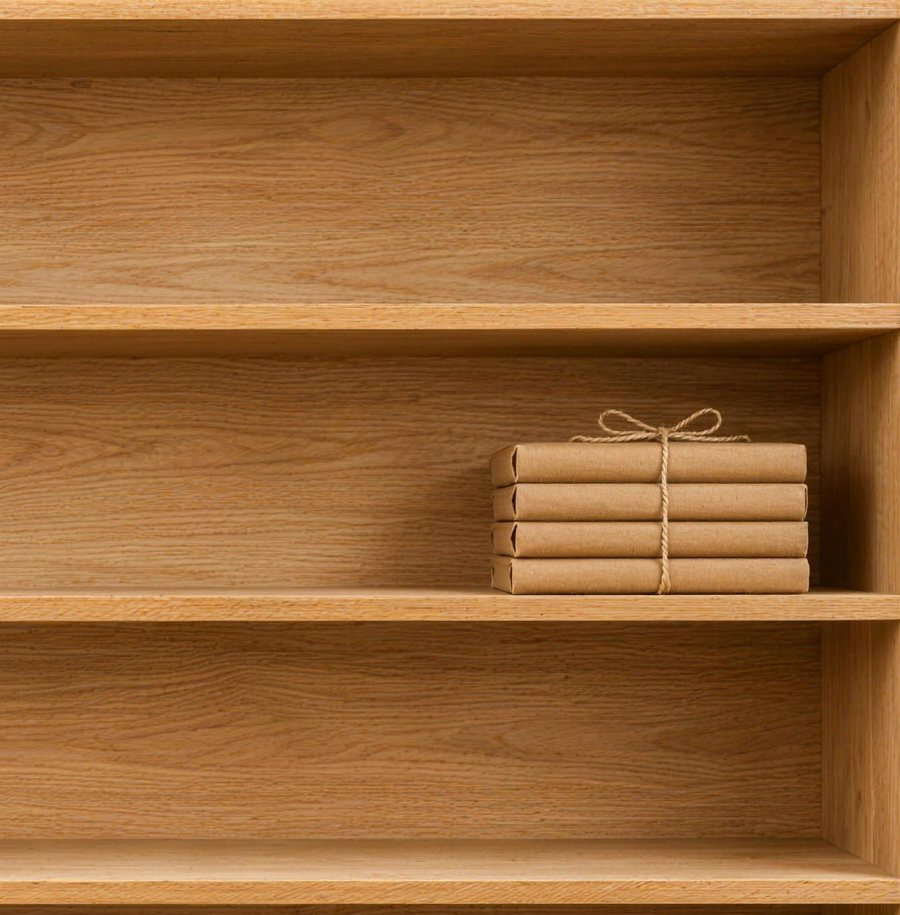
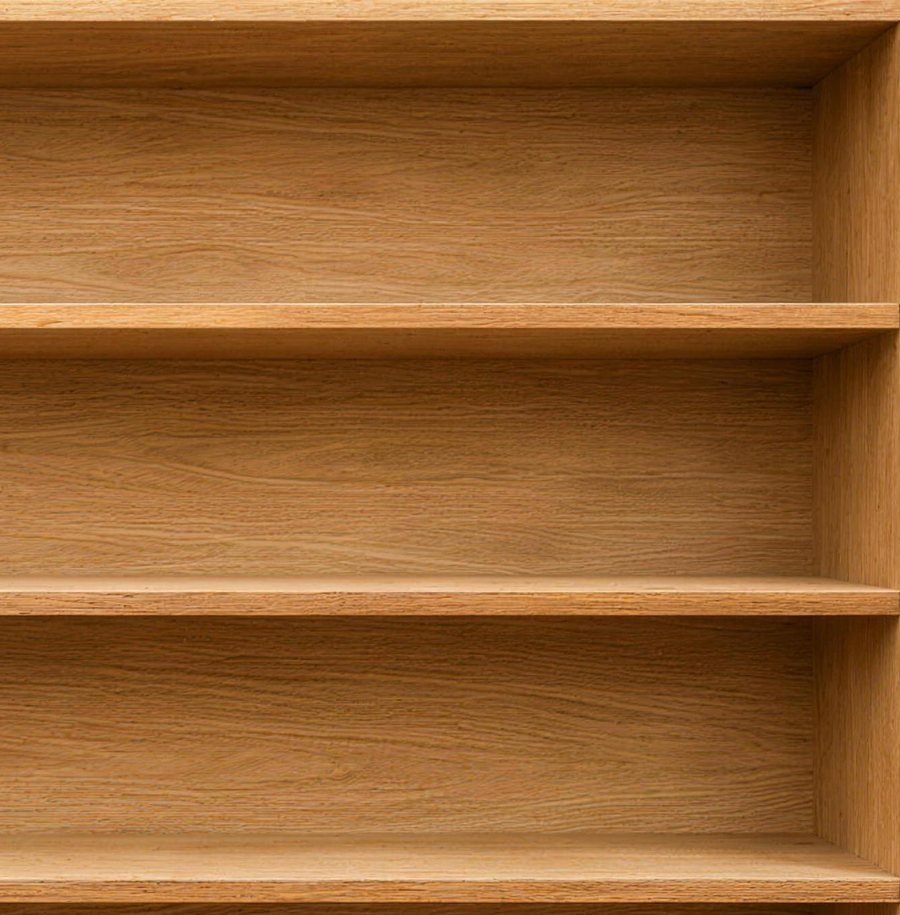
Shelf: labels stay in front of opened books, real contents pages inside the covers, in-production stack whose twine loosens on hover

diff --git a/public/styles.css b/public/styles.css
@@ -322,7 +322,7 @@ a { color: var(--rose-deep); }
 .book3d.yours { --w: 10.4cqw; --h: 15.6cqw; }
 .bookcase-photo, .bookcase-photo img { display: block; width: 100%; height: auto; border-radius: 4px; }
 .slot { position: absolute; left: var(--x); bottom: var(--y); transform: translateX(-50%); }
-.slot-label { position: absolute; left: var(--x); top: var(--y); transform: translate(-50%, -50%); white-space: nowrap; z-index: 6;
+.slot-label { position: absolute; left: var(--x); top: var(--y); transform: translate(-50%, -50%); white-space: nowrap; z-index: 10; pointer-events: none;
   font-size: max(9px, var(--lab)); font-weight: 600; letter-spacing: .02em; color: #3b2516;
   background: linear-gradient(180deg, #f3e6bd 0%, #d9bd80 55%, #bd9a58 100%); padding: .22em .75em; border-radius: 2px;
   box-shadow: 0 1px 0 rgba(255,255,255,.55) inset, 0 1px 3px rgba(60, 35, 10, .45); }
@@ -333,13 +333,17 @@ a { color: var(--rose-deep); }
 .book3d:hover, .book3d:focus-visible, .book3d.is-open { z-index: 8; outline: none; }
 .book3d::after { content: ""; position: absolute; left: -18%; right: -6%; bottom: -3%; height: 7%; background: radial-gradient(ellipse at center, rgba(70, 40, 10, .45), transparent 70%); z-index: -1; }
 .b3-body { position: absolute; inset: 0; transform-style: preserve-3d; transform: rotateY(34deg); transform-origin: 50% 100%; transition: transform .7s cubic-bezier(.2, .7, .2, 1); }
-.book3d:hover .b3-body, .book3d:focus-visible .b3-body, .book3d.is-open .b3-body { transform: rotateY(0deg) translateZ(30px) scale(1.3); }
+.book3d:hover .b3-body, .book3d:focus-visible .b3-body, .book3d.is-open .b3-body { transform: rotateY(0deg) translateZ(24px) scale(1.2); }
 .b3-page, .b3-cover, .b3-front, .b3-inner, .b3-back { position: absolute; inset: 0; width: 100%; height: 100%; }
 .b3-page { transform: translateZ(-1px); object-fit: cover; border-radius: 0 2px 2px 0; box-shadow: inset 6px 0 10px rgba(0,0,0,.1); }
 .b3-cover { transform-origin: left center; transform-style: preserve-3d; transition: transform .8s .12s cubic-bezier(.3, .6, .2, 1); }
 .book3d:hover .b3-cover, .book3d:focus-visible .b3-cover, .book3d.is-open .b3-cover { transform: rotateY(-128deg); }
 .b3-front { backface-visibility: hidden; object-fit: cover; border-radius: 0 2px 2px 0; box-shadow: inset 3px 0 5px rgba(0,0,0,.22); }
-.b3-inner { transform: rotateY(180deg); backface-visibility: hidden; background: #f3ece0; border-radius: 2px 0 0 2px; box-shadow: inset -8px 0 12px rgba(0,0,0,.08); }
+.b3-inner { transform: rotateY(180deg); backface-visibility: hidden; background: #f3ece0; border-radius: 2px 0 0 2px; box-shadow: inset -8px 0 12px rgba(0,0,0,.08); overflow: hidden; }
+.b3-inner img { width: 100%; height: 100%; object-fit: cover; display: block; }
+.yours-inner { display: flex; flex-direction: column; justify-content: center; gap: .55em; padding: 0 calc(var(--w) * .12); text-align: left;
+  font-family: 'Fraunces', Georgia, serif; font-size: calc(var(--w) * .088); line-height: 1.2; color: #3a2233; }
+.yours-inner b { color: #b5446a; font-weight: 600; }
 .b3-spine { position: absolute; top: 0; left: calc(var(--t) * -1); width: var(--t); height: 100%; transform-origin: right center; transform: rotateY(-90deg); background: var(--spine); color: var(--spine-ink); display: flex; align-items: center; justify-content: center; box-shadow: inset 0 0 6px rgba(0,0,0,.3); overflow: hidden; }
 .b3-spine span { writing-mode: vertical-rl; font-family: 'Fraunces', Georgia, serif; font-size: max(6px, calc(var(--t) * .5)); font-weight: 600; letter-spacing: .02em; white-space: nowrap; }
 .b3-edge { position: absolute; top: 2%; left: 100%; width: var(--t); height: 96%; transform-origin: left center; transform: rotateY(90deg); background: repeating-linear-gradient(90deg, #fbf7ef 0 2px, #e2d7c6 2px 3px); }
@@ -381,6 +385,27 @@ a { color: var(--rose-deep); }
   .slot-label .lt + b { margin-left: 0; }
   .desk-only { display: none; }
 }
+
+/* the "in production" stack: its twine bow slowly loosens on hover */
+.stack { width: 20.5cqw; transform: translateX(-50%); z-index: 2; }
+.stack img { display: block; width: 100%; height: auto; filter: drop-shadow(0 4px 5px rgba(70, 40, 10, .35)); }
+.twine { position: absolute; left: 0; top: -28.26%; width: 100%; height: auto; overflow: visible; filter: drop-shadow(0 1.5px 1px rgba(40, 20, 5, .45)); }
+.twine .tw { fill: none; stroke: #a47b47; stroke-width: 12; stroke-linecap: round; }
+.twine .tw-hi { fill: none; stroke: #e0c28c; stroke-width: 4; stroke-linecap: round; stroke-dasharray: 5 7; opacity: .85; }
+.twine path { transition: d 2.4s cubic-bezier(.4, .1, .2, 1); }
+.twine .loop { transform-box: view-box; transform-origin: 407px 66px; transition: transform 2.4s cubic-bezier(.4, .1, .2, 1); }
+.twine .knot { fill: #94703f; transform-box: view-box; transform-origin: 407px 66px; transition: transform 2.4s; }
+.stack:hover .loop-l, .stack.is-open .loop-l { transform: rotate(-26deg) scale(1.16); }
+.stack:hover .loop-r, .stack.is-open .loop-r { transform: rotate(38deg) scale(.82) translate(6px, 10px); }
+.stack:hover .knot, .stack.is-open .knot { transform: scale(.85); }
+.stack:hover .tw-top, .stack.is-open .tw-top { d: path('M407,118 C399,88 415,44 404,14'); }
+.stack:hover .tw-front, .stack.is-open .tw-front { d: path('M407,118 C421,215 393,350 411,452'); }
+.stack:hover .tw-flat, .stack.is-open .tw-flat { d: path('M18,68 C250,76 560,58 797,70'); }
+.stack:hover .tw-band, .stack.is-open .tw-band { d: path('M14,284 C250,298 560,274 801,288'); }
+.stack:hover .tw-tail-l, .stack.is-open .tw-tail-l { d: path('M407,66 C372,140 332,206 300,268'); }
+.stack:hover .tw-tail-r, .stack.is-open .tw-tail-r { d: path('M407,66 C440,150 468,232 482,304'); }
+@media (max-width: 600px) { .stack { width: 33.3cqw; } }
+@media (prefers-reduced-motion: reduce) { .twine path, .twine .loop, .twine .knot { transition: none; } }
 @media (hover: none) {
   .b3-body { transform: rotateY(22deg); }
 }

diff --git a/public/index.html b/public/index.html
@@ -96,36 +96,37 @@
     <p class="section-sub">Real books, made with creators in their own words. Hover over one to open it, and click to get it.</p>
     <div class="bookcase">
       <picture class="bookcase-photo"><source media="(max-width: 600px)" srcset="img/bookcase-m.jpg"><img src="img/bookcase.jpg" width="1600" height="1294" alt="An oak bookcase with our books on the top shelf"></picture>
-      <div class="slot" style="--x:47.85%;--y:74.15%;--mx:17.46%;--my:66.56%">
+      <div class="slot" style="--x:46.88%;--y:74.15%;--mx:15.87%;--my:66.56%">
         <a class="book3d" href="https://whop.com/loopworkbooks/the-overtired-dog" target="_blank" rel="noopener" aria-label="The Overtired Dog by Kris Downey, $19, opens the book page on Whop" style="--spine:#2f3437;--spine-ink:#f4f1ec">
           <div class="b3-body">
             <img class="b3-page" src="img/book-ch2.jpg" alt="" loading="lazy">
-            <div class="b3-cover"><img class="b3-front" src="img/book-cover.jpg" alt="Cover of The Overtired Dog by Kris Downey"><div class="b3-inner"></div></div>
+            <div class="b3-cover"><img class="b3-front" src="img/book-cover.jpg" alt="Cover of The Overtired Dog by Kris Downey"><div class="b3-inner"><img src="img/book-contents-dog.jpg" alt="" loading="lazy"></div></div>
             <div class="b3-spine"><span>The Overtired Dog</span></div>
             <div class="b3-edge"></div>
             <div class="b3-back"></div>
           </div>
         </a>
       </div>
-      <span class="slot-label" style="--x:47.85%;--y:27.17%;--mx:17.46%;--my:35.16%"><span class="lt">The Overtired Dog</span><b>$19</b></span>
-      <div class="slot" style="--x:72.27%;--y:74.15%;--mx:57.14%;--my:66.56%">
+      <span class="slot-label" style="--x:46.88%;--y:26.93%;--mx:15.87%;--my:34.84%"><span class="lt">The Overtired Dog</span><b>$19</b></span>
+      <div class="slot" style="--x:75.68%;--y:74.15%;--mx:62.70%;--my:66.56%">
         <a class="book3d" href="https://whop.com/unclutter-it/the-small-steps-home-reset" target="_blank" rel="noopener" aria-label="The Small Steps Home Reset by Bridget Stralko, $20, opens the book page on Whop" style="--spine:#f1e6cf;--spine-ink:#2e2a5a">
           <div class="b3-body">
             <img class="b3-page" src="img/book-inside-reset.jpg" alt="" loading="lazy">
-            <div class="b3-cover"><img class="b3-front" src="img/book-cover-reset.jpg" alt="Cover of The Small Steps Home Reset by Bridget Stralko"><div class="b3-inner"></div></div>
+            <div class="b3-cover"><img class="b3-front" src="img/book-cover-reset.jpg" alt="Cover of The Small Steps Home Reset by Bridget Stralko"><div class="b3-inner"><img src="img/book-contents-reset.jpg" alt="" loading="lazy"></div></div>
             <div class="b3-spine"><span>The Small Steps Home Reset</span></div>
             <div class="b3-edge"></div>
             <div class="b3-back"></div>
           </div>
         </a>
       </div>
-      <span class="slot-label" style="--x:72.27%;--y:27.17%;--mx:57.14%;--my:35.16%"><span class="lt">The Small Steps Home Reset</span><b>$20</b></span>
-      <span class="slot-label" style="--x:81.54%;--y:51.21%;--mx:72.22%;--my:66.25%">In production</span>
-      <div class="slot" style="--x:59.57%;--y:27.54%;--mx:36.51%;--my:6.25%">
+      <span class="slot-label" style="--x:75.68%;--y:26.93%;--mx:62.70%;--my:34.84%"><span class="lt">The Small Steps Home Reset</span><b>$20</b></span>
+      <div class="slot stack" style="--x:80.08%;--y:50.48%;--mx:69.84%;--my:35.94%"><img src="img/stack.png" width="408" height="230" alt="Books in production, wrapped in brown paper"><svg class="twine" viewBox="0 -130 815 590" aria-hidden="true"><path class="tw tw-top" d="M407,118 L407,14"/><path class="tw-hi tw-top" d="M407,118 L407,14"/><path class="tw tw-front" d="M407,118 L407,452"/><path class="tw-hi tw-front" d="M407,118 L407,452"/><path class="tw tw-flat" d="M18,64 L797,64"/><path class="tw-hi tw-flat" d="M18,64 L797,64"/><path class="tw tw-band" d="M14,282 L801,282"/><path class="tw-hi tw-band" d="M14,282 L801,282"/><path class="tw tw-tail-l" d="M407,66 C384,104 356,132 334,168"/><path class="tw-hi tw-tail-l" d="M407,66 C384,104 356,132 334,168"/><path class="tw tw-tail-r" d="M407,66 C430,108 452,146 470,186"/><path class="tw-hi tw-tail-r" d="M407,66 C430,108 452,146 470,186"/><g class="loop loop-l"><path class="tw" d="M407,66 C318,-96 220,24 407,66"/><path class="tw-hi" d="M407,66 C318,-96 220,24 407,66"/></g><g class="loop loop-r"><path class="tw" d="M407,66 C500,-100 610,22 407,66"/><path class="tw-hi" d="M407,66 C500,-100 610,22 407,66"/></g><ellipse class="knot" cx="407" cy="66" rx="17" ry="13"/></svg></div>
+      <span class="slot-label" style="--x:80.08%;--y:50.60%;--mx:69.84%;--my:65.47%">In production</span>
+      <div class="slot" style="--x:59.57%;--y:27.29%;--mx:36.51%;--my:5.94%">
         <a class="book3d yours" href="#apply" aria-label="Your book could be next: get a free chapter" style="--spine:#efe5d2;--spine-ink:#a8853e">
           <div class="b3-body">
             <div class="yours-page"><small>Chapter one</small><strong>Is on us.</strong><span>Get a free chapter &rarr;</span></div>
-            <div class="b3-cover"><div class="yours-cover"><span class="foil small">Your name</span><span class="yours-rule"></span><span class="foil big">Your<br>book</span></div><div class="b3-inner"></div></div>
+            <div class="b3-cover"><div class="yours-cover"><span class="foil small">Your name</span><span class="yours-rule"></span><span class="foil big">Your<br>book</span></div><div class="b3-inner yours-inner"><span>Written from <b>your posts.</b></span><span>Designed by <b>us.</b></span><span>Approved by <b>you.</b></span></div></div>
             <div class="b3-spine"><span>Your book</span></div>
             <div class="b3-edge"></div>
             <div class="b3-back"></div>

diff --git a/public/books.html b/public/books.html
@@ -51,36 +51,37 @@
   <section class="section shelf-section" style="padding-top:30px">
     <div class="bookcase">
       <picture class="bookcase-photo"><source media="(max-width: 600px)" srcset="img/bookcase-m.jpg"><img src="img/bookcase.jpg" width="1600" height="1294" alt="An oak bookcase with our books on the top shelf"></picture>
-      <div class="slot" style="--x:47.85%;--y:74.15%;--mx:17.46%;--my:66.56%">
+      <div class="slot" style="--x:46.88%;--y:74.15%;--mx:15.87%;--my:66.56%">
         <a class="book3d" href="https://whop.com/loopworkbooks/the-overtired-dog" target="_blank" rel="noopener" aria-label="The Overtired Dog by Kris Downey, $19, opens the book page on Whop" style="--spine:#2f3437;--spine-ink:#f4f1ec">
           <div class="b3-body">
             <img class="b3-page" src="img/book-ch2.jpg" alt="" loading="lazy">
-            <div class="b3-cover"><img class="b3-front" src="img/book-cover.jpg" alt="Cover of The Overtired Dog by Kris Downey"><div class="b3-inner"></div></div>
+            <div class="b3-cover"><img class="b3-front" src="img/book-cover.jpg" alt="Cover of The Overtired Dog by Kris Downey"><div class="b3-inner"><img src="img/book-contents-dog.jpg" alt="" loading="lazy"></div></div>
             <div class="b3-spine"><span>The Overtired Dog</span></div>
             <div class="b3-edge"></div>
             <div class="b3-back"></div>
           </div>
         </a>
       </div>
-      <span class="slot-label" style="--x:47.85%;--y:27.17%;--mx:17.46%;--my:35.16%"><span class="lt">The Overtired Dog</span><b>$19</b></span>
-      <div class="slot" style="--x:72.27%;--y:74.15%;--mx:57.14%;--my:66.56%">
+      <span class="slot-label" style="--x:46.88%;--y:26.93%;--mx:15.87%;--my:34.84%"><span class="lt">The Overtired Dog</span><b>$19</b></span>
+      <div class="slot" style="--x:75.68%;--y:74.15%;--mx:62.70%;--my:66.56%">
         <a class="book3d" href="https://whop.com/unclutter-it/the-small-steps-home-reset" target="_blank" rel="noopener" aria-label="The Small Steps Home Reset by Bridget Stralko, $20, opens the book page on Whop" style="--spine:#f1e6cf;--spine-ink:#2e2a5a">
           <div class="b3-body">
             <img class="b3-page" src="img/book-inside-reset.jpg" alt="" loading="lazy">
-            <div class="b3-cover"><img class="b3-front" src="img/book-cover-reset.jpg" alt="Cover of The Small Steps Home Reset by Bridget Stralko"><div class="b3-inner"></div></div>
+            <div class="b3-cover"><img class="b3-front" src="img/book-cover-reset.jpg" alt="Cover of The Small Steps Home Reset by Bridget Stralko"><div class="b3-inner"><img src="img/book-contents-reset.jpg" alt="" loading="lazy"></div></div>
             <div class="b3-spine"><span>The Small Steps Home Reset</span></div>
             <div class="b3-edge"></div>
             <div class="b3-back"></div>
           </div>
         </a>
       </div>
-      <span class="slot-label" style="--x:72.27%;--y:27.17%;--mx:57.14%;--my:35.16%"><span class="lt">The Small Steps Home Reset</span><b>$20</b></span>
-      <span class="slot-label" style="--x:81.54%;--y:51.21%;--mx:72.22%;--my:66.25%">In production</span>
-      <div class="slot" style="--x:59.57%;--y:27.54%;--mx:36.51%;--my:6.25%">
+      <span class="slot-label" style="--x:75.68%;--y:26.93%;--mx:62.70%;--my:34.84%"><span class="lt">The Small Steps Home Reset</span><b>$20</b></span>
+      <div class="slot stack" style="--x:80.08%;--y:50.48%;--mx:69.84%;--my:35.94%"><img src="img/stack.png" width="408" height="230" alt="Books in production, wrapped in brown paper"><svg class="twine" viewBox="0 -130 815 590" aria-hidden="true"><path class="tw tw-top" d="M407,118 L407,14"/><path class="tw-hi tw-top" d="M407,118 L407,14"/><path class="tw tw-front" d="M407,118 L407,452"/><path class="tw-hi tw-front" d="M407,118 L407,452"/><path class="tw tw-flat" d="M18,64 L797,64"/><path class="tw-hi tw-flat" d="M18,64 L797,64"/><path class="tw tw-band" d="M14,282 L801,282"/><path class="tw-hi tw-band" d="M14,282 L801,282"/><path class="tw tw-tail-l" d="M407,66 C384,104 356,132 334,168"/><path class="tw-hi tw-tail-l" d="M407,66 C384,104 356,132 334,168"/><path class="tw tw-tail-r" d="M407,66 C430,108 452,146 470,186"/><path class="tw-hi tw-tail-r" d="M407,66 C430,108 452,146 470,186"/><g class="loop loop-l"><path class="tw" d="M407,66 C318,-96 220,24 407,66"/><path class="tw-hi" d="M407,66 C318,-96 220,24 407,66"/></g><g class="loop loop-r"><path class="tw" d="M407,66 C500,-100 610,22 407,66"/><path class="tw-hi" d="M407,66 C500,-100 610,22 407,66"/></g><ellipse class="knot" cx="407" cy="66" rx="17" ry="13"/></svg></div>
+      <span class="slot-label" style="--x:80.08%;--y:50.60%;--mx:69.84%;--my:65.47%">In production</span>
+      <div class="slot" style="--x:59.57%;--y:27.29%;--mx:36.51%;--my:5.94%">
         <a class="book3d yours" href="/#apply" aria-label="Your book could be next: get a free chapter" style="--spine:#efe5d2;--spine-ink:#a8853e">
           <div class="b3-body">
             <div class="yours-page"><small>Chapter one</small><strong>Is on us.</strong><span>Get a free chapter &rarr;</span></div>
-            <div class="b3-cover"><div class="yours-cover"><span class="foil small">Your name</span><span class="yours-rule"></span><span class="foil big">Your<br>book</span></div><div class="b3-inner"></div></div>
+            <div class="b3-cover"><div class="yours-cover"><span class="foil small">Your name</span><span class="yours-rule"></span><span class="foil big">Your<br>book</span></div><div class="b3-inner yours-inner"><span>Written from <b>your posts.</b></span><span>Designed by <b>us.</b></span><span>Approved by <b>you.</b></span></div></div>
             <div class="b3-spine"><span>Your book</span></div>
             <div class="b3-edge"></div>
             <div class="b3-back"></div>
